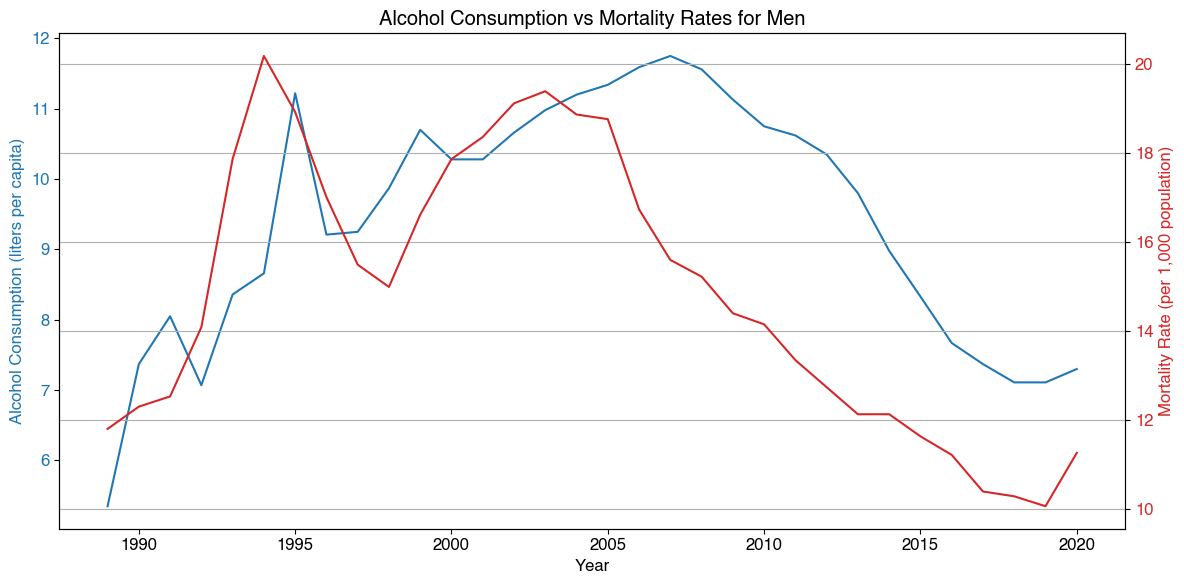
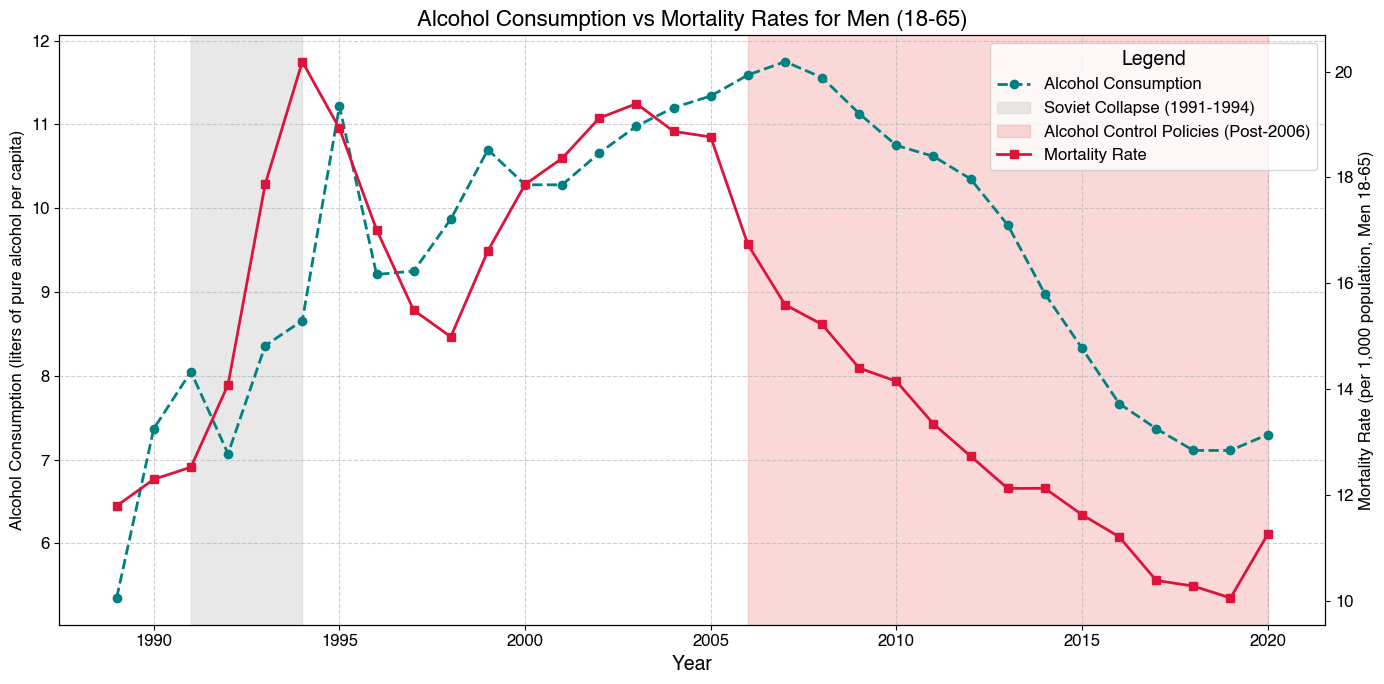
Improve last plot, improve captions

diff --git a/_includes/andrej.html b/_includes/andrej.html
@@ -5,7 +5,9 @@
     X illustrates the dramatic gap between male and female death rates among the working-age
     population, with male mortality peaking at approximately 20 deaths per 1,000 in the mid-1990s.
     The mortality started delining after 2005 this could be a possible connection to the regulations
-    introduced in 2006. This gender disparity is further reflected in life expectancy figures. As
+    introduced in 2006.
+    <br>
+    This gender disparity is further reflected in life expectancy figures. As
     shown in Figure Y, Russian men's life expectancy fell to a staggering 57.6 years in 1994,
     placing it below the world average and creating one of the largest gender gaps in life
     expectancy globally, with Russian women living approximately 10 years longer being comprable to
@@ -21,8 +23,8 @@
       />
     </div>
     <div style="font-size: 0.9em; color: #555; line-height: 1.5; text-align: center">
-      <strong>Figure x:</strong> Average death rates among working age population per 1,000
-      individuals in Russia by gender.
+      <strong>Figure x:</strong> Average death rates among working age population (Age 18 - 65) per
+      1,000 individuals in Russia by gender.
     </div>
   </div>
 
@@ -32,7 +34,8 @@
     </div>
     <div style="font-size: 0.9em; color: #555; line-height: 1.5; text-align: center">
       <strong>Figure x:</strong> Life expectancy by gender and difference between life expectancy
-      for women and men in Russia and selected countries. Click on the legend to hide/unhide countries.
+      for women and men in Russia and selected countries. Click on the legend to hide/unhide
+      countries.
     </div>
   </div>
 
@@ -56,27 +59,33 @@
       />
     </div>
     <div style="font-size: 0.9em; color: #555; line-height: 1.5; text-align: center">
-      <strong>Figure x:</strong> Percentage of total deaths by cause in Russia.
+      <strong>Figure x:</strong> Percentage of total deaths by alcohol-related and circulatory
+      system disease causes in Russia. Alcohol-related causes include: Chronic alcoholism, alcoholic
+      psychosis, encephalopathy, dementia, Alcoholic liver disease and Unintentional poisoning by
+      alcohol (ICD-10 codes: F10, K70, X45). Diseases of the circulatory system include: Rheumatic
+      heart disease, Hypertensive disease, Ischaemic heart disease, Cerebrovascular disease (ICD-10
+      codes: I00-I99).
     </div>
   </div>
   <p>
     The figure x illustrates the correlation between alcohol consumption and mortality rates among
     working-age men in Russia from 1990 to 2021. The correlation is particularly evident during
-    three periods: the sharp mortality increase following the Soviet collapse (1991-1994), the
-    temporary improvement during the economic crisis (1998-1999), and the sustained decline after
-    the implementation of alcohol control policies (post-2006).
+    three periods: the sharp mortality increase following the Soviet collapse (1991-1994), the and
+    the sustained decline after the implementation of alcohol control policies (post-2006).
   </p>
   <div style="display: flex; flex-direction: column; gap: 20px; margin: 2em 0">
     <div style="display: flex; align-items: center; justify-content: center">
       <img
         src="assets/img/mortality/alcohol_consumption_men_mortality.png"
         alt="Alcohol Consumption vs Mortality Rates for Men"
-        style="width: 60%; height: auto; border: 1px solid #ccc"
+        style="width: 80%; height: auto; border: 1px solid #ccc"
       />
     </div>
     <div style="font-size: 0.9em; color: #555; line-height: 1.5; text-align: center">
-      <strong>Figure x:</strong> Alcohol consumption (liters per capita) vs mortality rates (per
-      1,000 population) for men in Russia.
+      <strong>Figure x:</strong> Alcohol consumption in liters of pure alcohol per capita vs
+      mortality rates for working age men (18 - 65) per 1,000 population in Russa. Highlighted are
+      the periods of the Soviet collapse (1991-1994), the introduction of alcohol control policies
+      (2006).
     </div>
   </div>
 </section>
